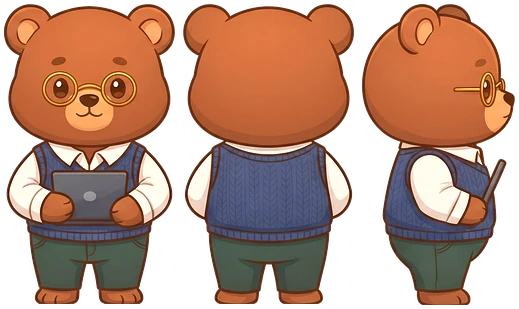
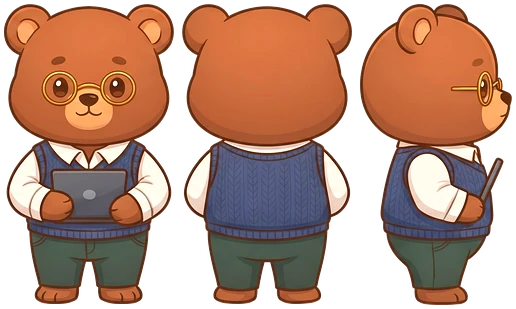
동물 선생님 6마리 발바닥이 잘려 보이던 문제 고치기: 그림 다듬기에서 바닥 선을 지울 때 발이 닿은 부분은 남기고 선만 지우기

diff --git a/js/data/teacher-sprites.js b/js/data/teacher-sprites.js
@@ -7,29 +7,29 @@ window.MP_TEACHER_SPRITES = {
    "down": [
     4,
     4,
-    171,
+    170,
     300,
-    85.0,
+    84.5,
     300,
-    260
+    258
    ],
    "right": [
-    362,
+    360,
     4,
-    153,
+    152,
     301,
-    79.0,
+    78.0,
     301,
-    261
+    259
    ],
    "up": [
-    183,
+    182,
     4,
-    171,
+    170,
     300,
     85.0,
     300,
-    261
+    258
    ]
   }
  },
@@ -40,25 +40,25 @@ window.MP_TEACHER_SPRITES = {
    "down": [
     4,
     4,
-    164,
+    162,
     300,
-    94.0,
+    93.0,
     300,
-    275
+    272
    ],
    "right": [
-    362,
+    359,
     4,
-    194,
+    192,
     300,
-    116.0,
+    114.0,
     300,
-    275
+    272
    ],
    "up": [
-    176,
+    174,
     4,
-    178,
+    177,
     300,
     79.0,
     300,
@@ -73,29 +73,29 @@ window.MP_TEACHER_SPRITES = {
    "down": [
     4,
     4,
-    186,
+    185,
     300,
-    93.0,
+    92.0,
     300,
-    259
+    255
    ],
    "right": [
-    394,
+    391,
     4,
-    195,
+    194,
     299,
-    88.0,
+    87.0,
     299,
-    258
+    254
    ],
    "up": [
-    198,
+    197,
     4,
-    188,
+    186,
     300,
-    93.0,
+    92.0,
     300,
-    267
+    265
    ]
   }
  },
@@ -106,29 +106,29 @@ window.MP_TEACHER_SPRITES = {
    "down": [
     4,
     4,
-    139,
+    138,
     300,
     69.0,
     300,
-    275
+    273
    ],
    "right": [
-    298,
+    296,
     4,
-    116,
+    115,
     300,
-    62.0,
+    61.0,
     300,
-    275
+    273
    ],
    "up": [
-    151,
+    150,
     4,
-    139,
+    138,
     300,
-    69.0,
+    68.0,
     300,
-    275
+    272
    ]
   }
  },
@@ -139,29 +139,29 @@ window.MP_TEACHER_SPRITES = {
    "down": [
     4,
     4,
-    191,
+    189,
     300,
-    95.0,
+    94.0,
     300,
-    273
+    271
    ],
    "right": [
-    401,
+    398,
     4,
-    211,
+    210,
     301,
-    136.0,
+    135.0,
     301,
-    274
+    272
    ],
    "up": [
-    203,
+    201,
     4,
-    190,
+    189,
     300,
-    95.0,
+    94.0,
     300,
-    284
+    282
    ]
   }
  },
@@ -172,31 +172,31 @@ window.MP_TEACHER_SPRITES = {
    "down": [
     4,
     4,
-    188,
+    187,
     300,
     93.0,
     300,
-    268
+    266
    ],
    "right": [
-    396,
+    394,
     4,
-    154,
+    153,
     299,
     76.0,
     299,
-    267
+    265
    ],
    "up": [
-    200,
+    199,
     4,
-    188,
+    187,
     300,
     93.0,
     300,
-    261
+    259
    ]
   }
  }
 };
-window.MP_TEACHER_VER = '20261120090013';
+window.MP_TEACHER_VER = '20261120092005';

diff --git a/tools/build_teachers.py b/tools/build_teachers.py
@@ -50,9 +50,24 @@ def clear_floor(rgb):
     # 바닥 선: 한 줄이 끊김 없이 그림 폭의 70% 넘게 이어짐(캐릭터는 칸 사이가 비어 있어 이렇게 길지 않음)
     line = [y for y in range(int(h * 0.55), h) if dark[y].mean() > 0.5 and longest_run(dark[y]) > w * 0.7]
     if line:
-        y0 = min(line) - 2
+        # 캐릭터는 이 선을 밟고 서 있음: 선 아래(칸 이름 글자)는 모두 지우되,
+        # 선 자체는 바로 위가 배경인 곳만 지움 → 발바닥(선에 닿은 부분)은 잘리지 않음
+        y0, y1 = min(line), max(line)
         rgb = rgb.copy()
-        rgb[y0:] = bg
+        rgb[y1 + 3:] = bg
+        above = np.sqrt(((rgb[max(0, y0 - 4)] - bg) ** 2).sum(axis=1)) < 22
+        band = slice(max(0, y0 - 2), y1 + 3)
+        # 선의 색: 위가 배경인 곳의 선 픽셀 평균
+        line_px = rgb[y0:y1 + 1][:, above].reshape(-1, 3)
+        line_px = line_px[np.sqrt(((line_px - bg) ** 2).sum(axis=1)) > 18]
+        rgb[band, above] = bg
+        # 발 밑에 남은 선 조각: 선 색과 거의 같은 점만 배경으로 (발 외곽선·회색 꼬리 줄무늬는 남음)
+        if len(line_px):
+            lc = np.median(line_px, axis=0)
+            seg = rgb[band]
+            same = np.sqrt(((seg - lc) ** 2).sum(axis=2)) < 14
+            seg[same] = bg
+            rgb[band] = seg
     return rgb
 
 
